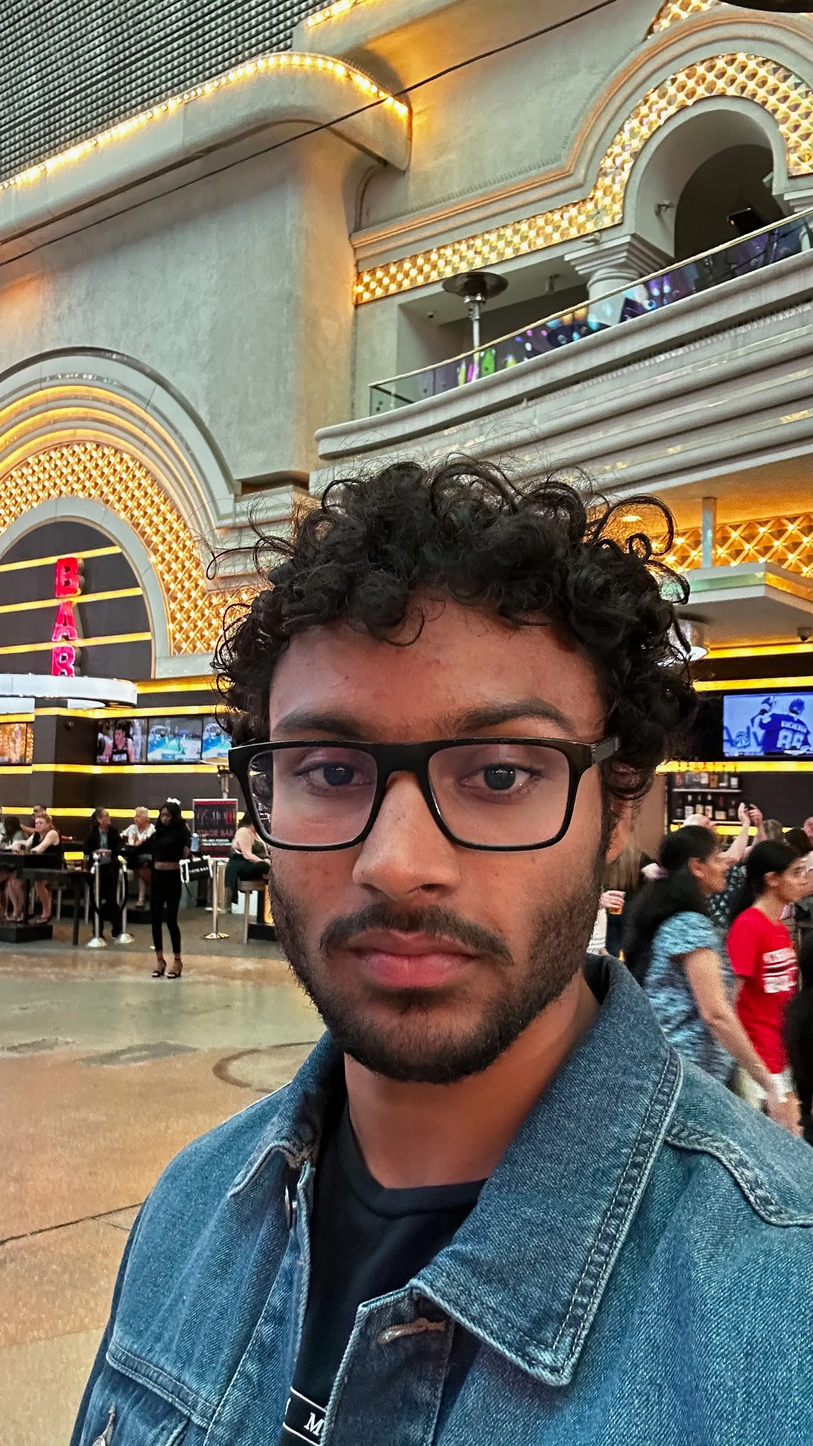
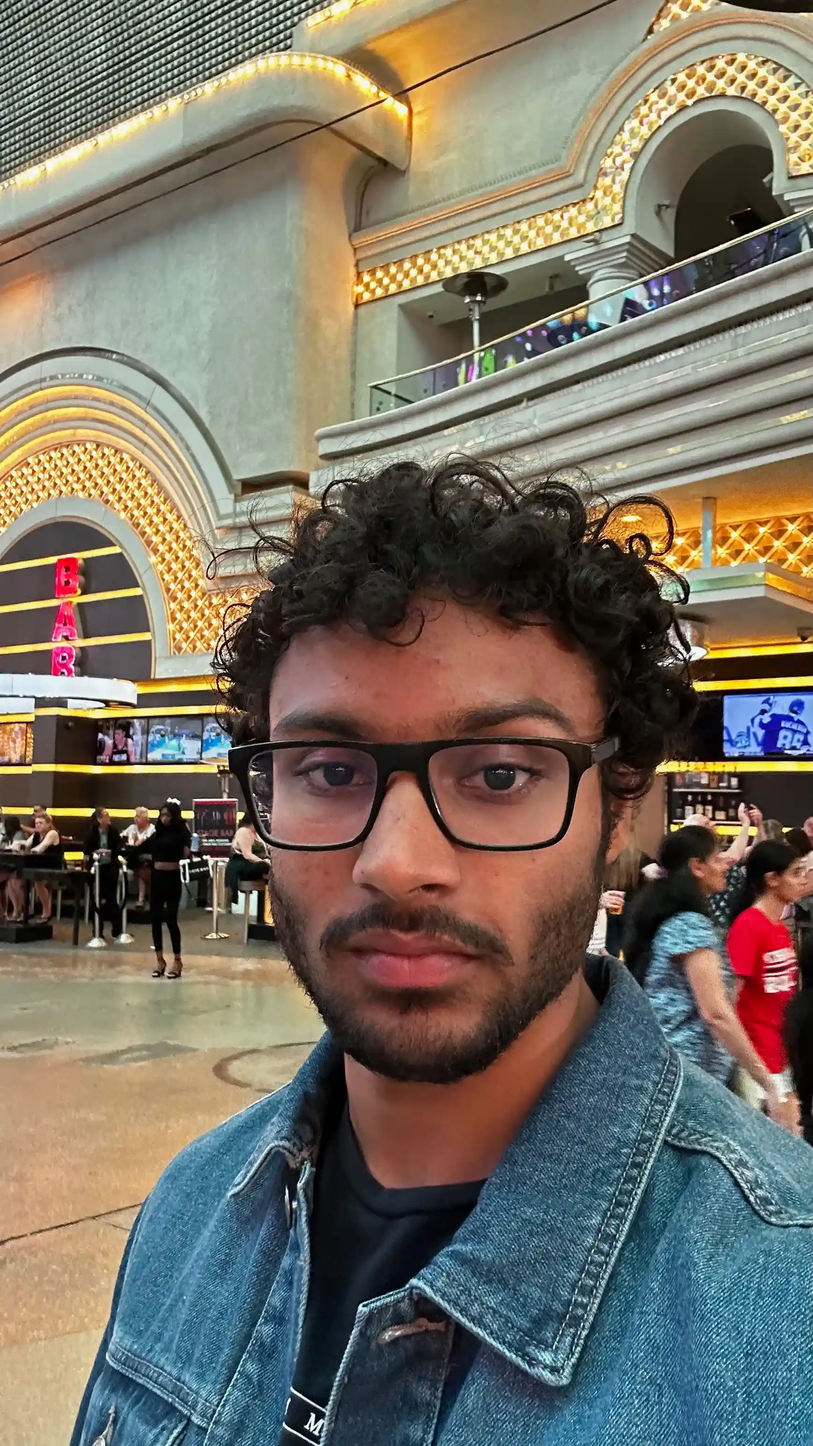
Fix: switching committees now loads in all images at once, also included slight animation. Compressed Anagha's Ishayu's and Vaidehi's images they were too big

diff --git a/src/Pages/Board/MemberCards.tsx b/src/Pages/Board/MemberCards.tsx
@@ -2,45 +2,41 @@ import { formatMemberLinks, unbreakable } from "../../Utils/functions.tsx";
 import { CommitteeType, MemberType } from "../../Utils/types";
 import committees from "../../Assets/Data/committees.json";
 import members from "../../Assets/Data/members.json";
-import { lazy, Suspense } from "react";
-const HoverCard = lazy(() => {
-  return import("../../Components/HoverCard");
-});
+import HoverCard from "../../Components/HoverCard.tsx";
+import { memo } from "react";
 
-const MemberCards = ({ committee }: { committee: CommitteeType }) => {
+const MemberCards = memo(function ({ committee }: { committee: CommitteeType }) {
   const typedMembers = members as MemberType[];
-  const filteredMembers = typedMembers.filter((member) =>
-    member.committees?.includes(committee)
-  );
+  const filteredMembers = typedMembers.filter((member) => member.committees?.includes(committee));
 
   return (
-    <div className="w-full flex flex-col gap-4">
-      <h1 className="text-[clamp(1.8rem,5vw,2.5rem)] font-medium text-center lg:text-left">
+    <div className="w-full h-full flex flex-col gap-4 ">
+      <h1 className="text-[clamp(1.8rem,5vw,2.5rem)] w-full font-medium text-center lg:text-left">
         {"Meet our "}
         <span className="text-(--color-primary) text-glow">{committee}</span>
         {/* {committee !== "Alumni" && unbreakable(" Team")}! */}
         {unbreakable(" Team")}!
       </h1>
-      <p className="text-[clamp(1.1rem,1.5vw,1.4rem)] font-light px-[clamp(1rem,3vw,5rem)] lg:px-0 indent-8 lg:indent-0">
+      <p className="text-[clamp(1.1rem,1.5vw,1.4rem)] w-full font-light px-[clamp(1rem,3vw,5rem)] lg:px-0 indent-8 lg:indent-0">
         {committees[committee]}
       </p>
-
-      <div className="grid grid-cols-[repeat(auto-fit,minmax(260px,1fr))] gap-y-8 py-12">
+      <div className="grid grid-cols-[repeat(auto-fill,260px)] h-full min-w-0 gap-y-8 py-12">
         {filteredMembers.map((member, index) => (
-          <Suspense fallback={<div className="w-full" />}>
-            <HoverCard
-              key={index}
-              title={member.name}
-              description={member.role}
-              image={member.image}
-              size="240px"
-              links={formatMemberLinks(member)}
-            />
-          </Suspense>
+          <>
+            <div className="animate-[hoverCardAnimate_1s]" key={committee + index}>
+              <HoverCard
+                title={member.name}
+                description={member.role}
+                image={member.image}
+                size="240px"
+                links={formatMemberLinks(member)}
+              />
+            </div>
+          </>
         ))}
       </div>
     </div>
   );
-};
+});
 
 export default MemberCards;

diff --git a/src/Pages/Board/Board.tsx b/src/Pages/Board/Board.tsx
@@ -16,7 +16,7 @@ const Board = () => {
 
   return (
     <Page>
-      <div className="flex flex-col lg:flex-row items-center lg:items-start pt-20 pb-10 px-[clamp(1.5rem,10vw,12rem)] gap-[clamp(2rem,5vw,8rem)] relative">
+      <div className="flex flex-col w-full lg:flex-row items-center lg:items-start pt-20 pb-10 px-[clamp(1.5rem,10vw,12rem)] gap-[clamp(2rem,5vw,8rem)] relative">
         <Star size={0.9} className="absolute top-8 right-8" />
         <Star size={1.1} className="absolute top-10 right-14" />
 
